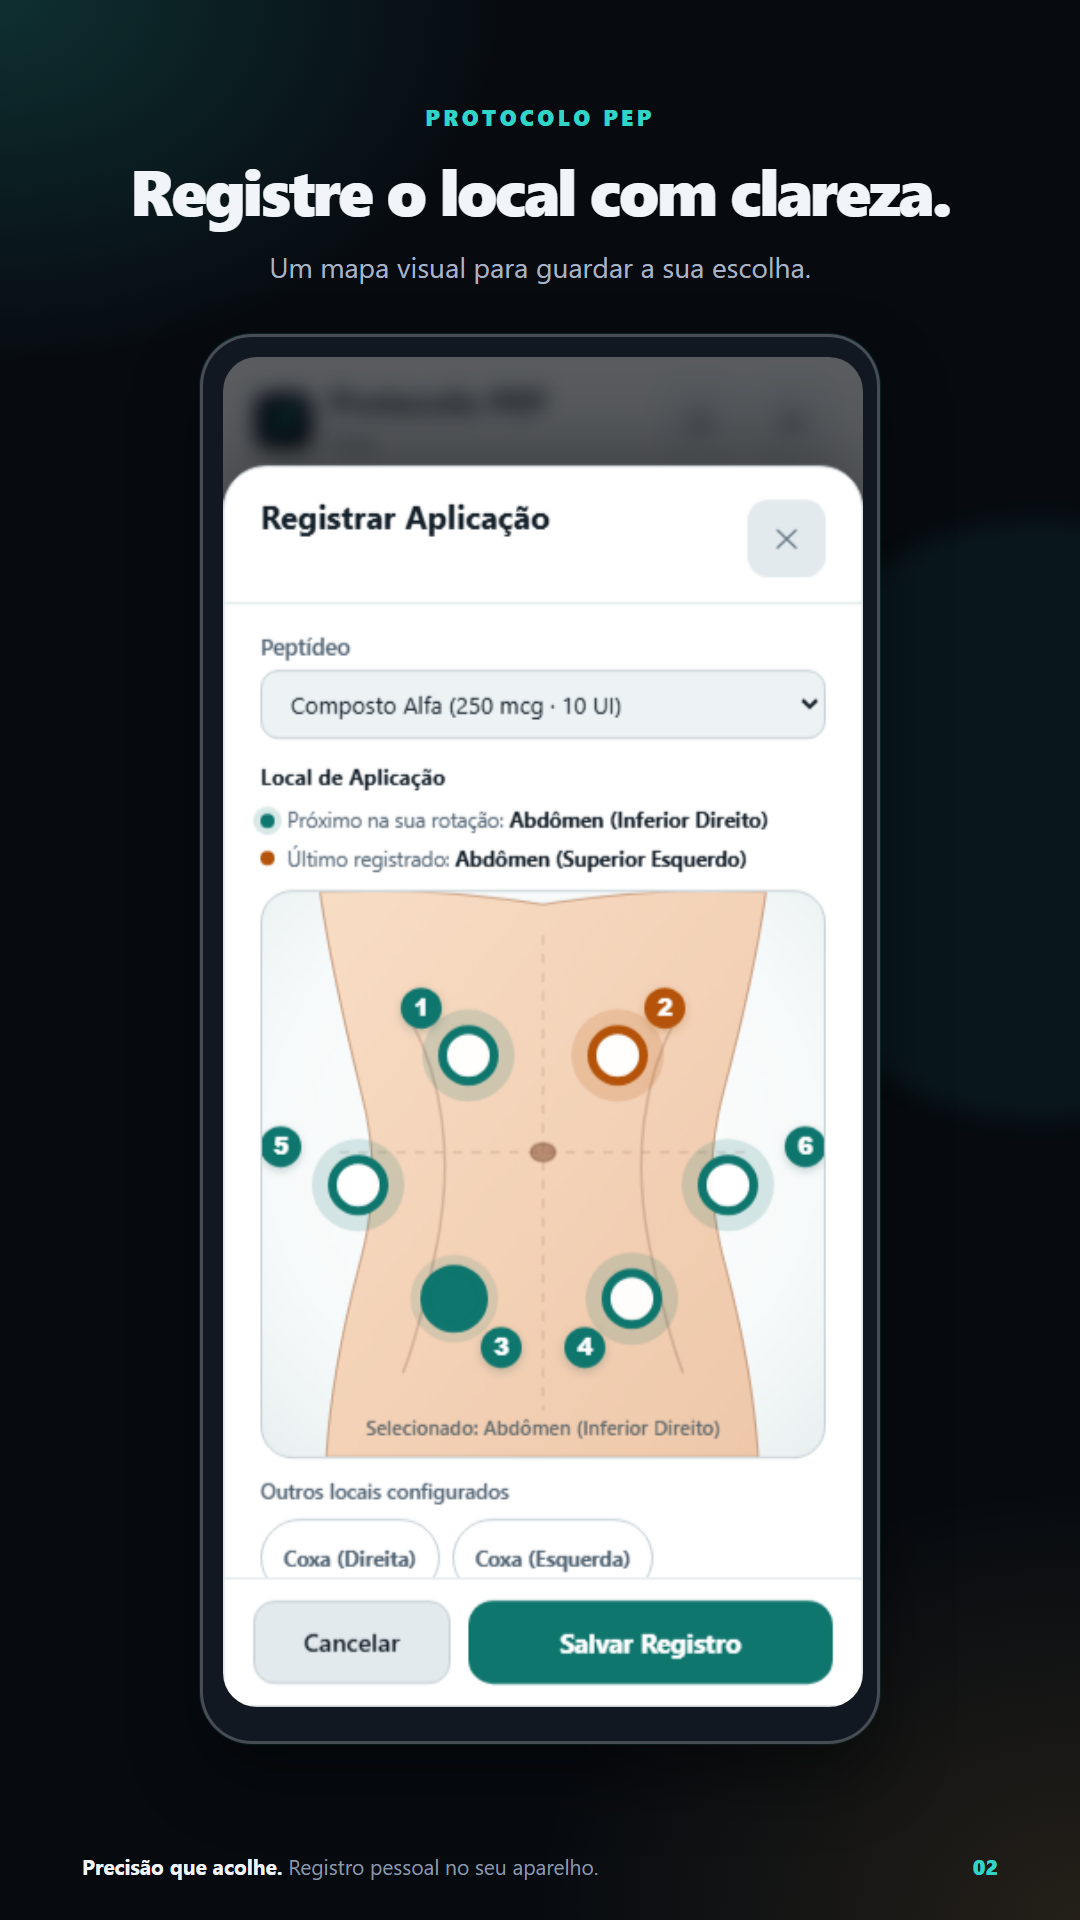
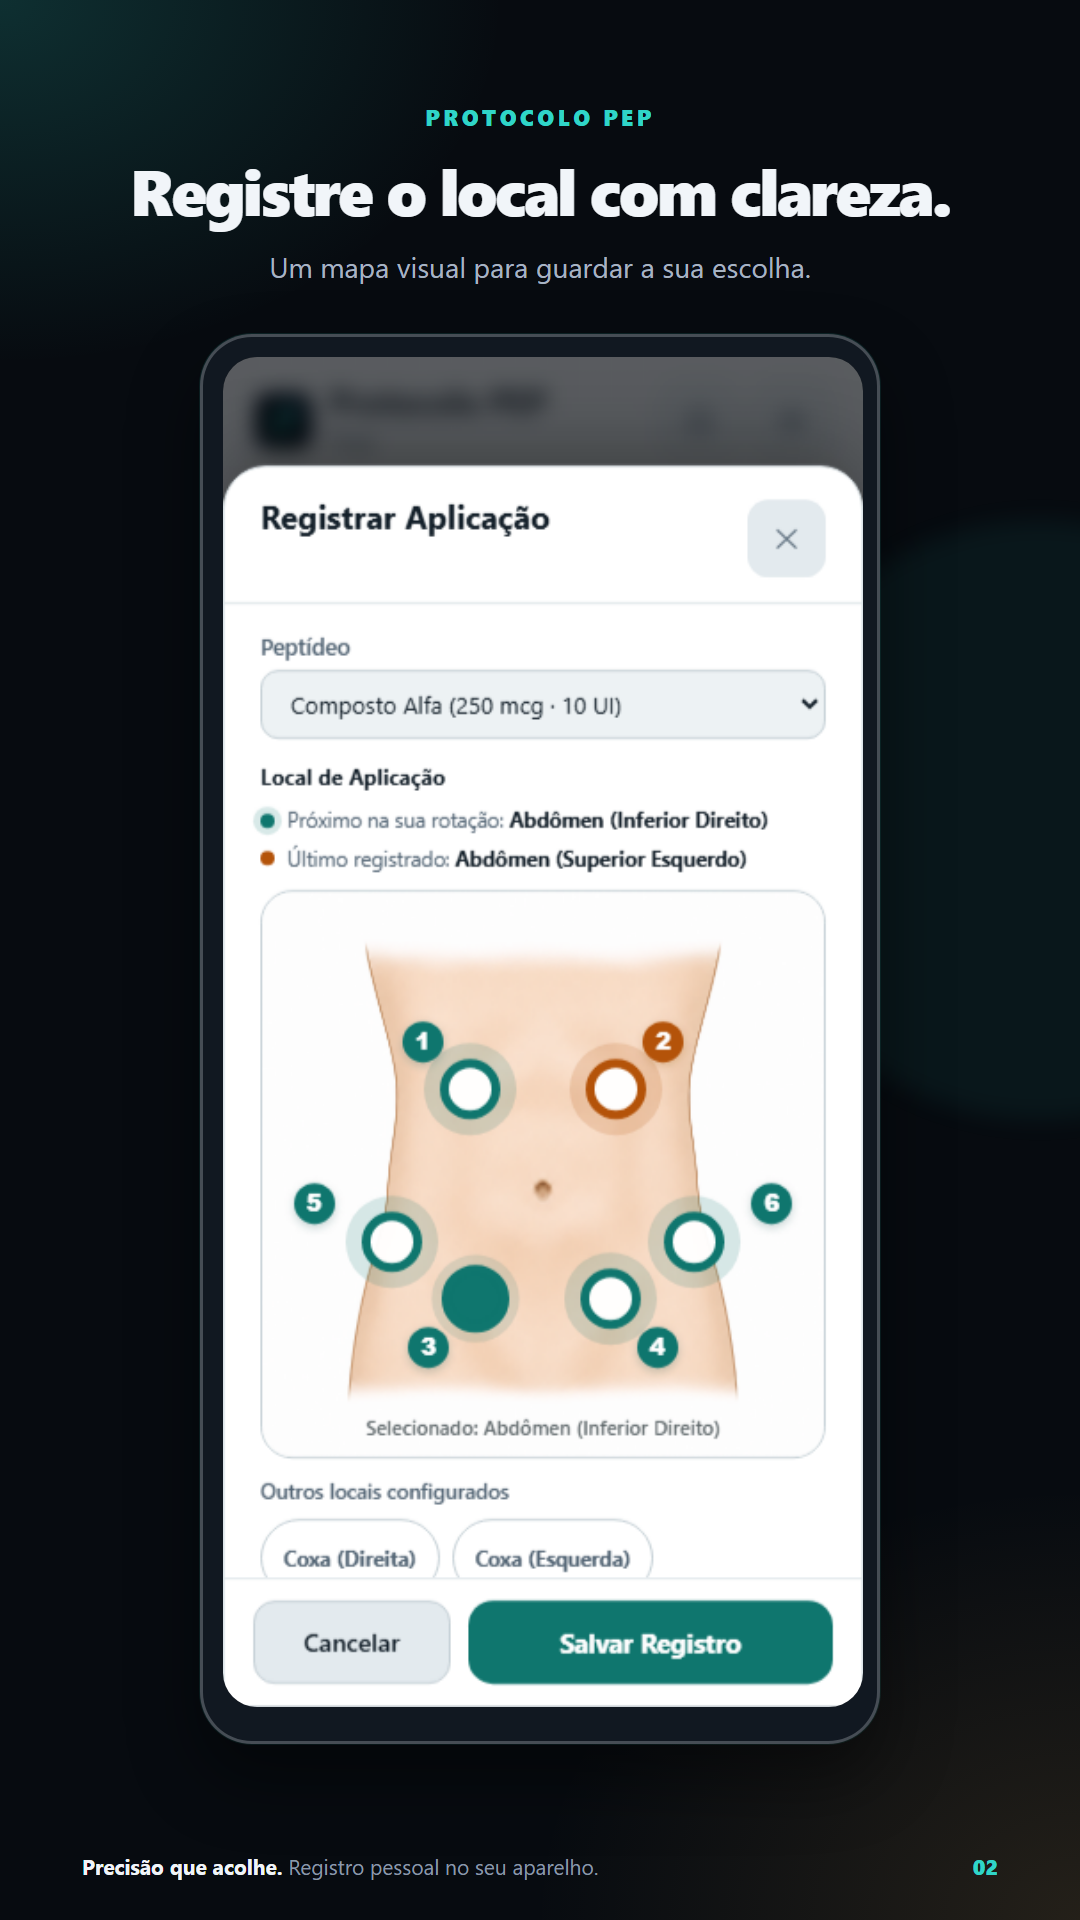
feat: use reference torso for injection map

Changed region(s): [[0.2444, 0.4375, 0.7639, 0.7812], [0.4889, 0.5938, 0.5194, 0.625]]

diff --git a/src/ui/injection-site-picker.js b/src/ui/injection-site-picker.js
@@ -5,6 +5,8 @@
  * Ele não avalia a pele, não determina segurança e não recomenda onde aplicar.
  */
 
+import torsoImageUrl from "../assets/injection-site-torso.png";
+
 const VISUAL_POSITIONS = Object.freeze({
   "abdomen (superior direito)": Object.freeze({ placement: "abdomen-upper-right", order: 0 }),
   "abdomen (superior esquerdo)": Object.freeze({ placement: "abdomen-upper-left", order: 1 }),
@@ -73,58 +75,13 @@ export function createInjectionSitePickerModel(
 }
 
 function createTorsoIllustration() {
-  const svgNamespace = "http://www.w3.org/2000/svg";
-  const svg = document.createElementNS(svgNamespace, "svg");
-  svg.setAttribute("viewBox", "0 0 320 360");
-  svg.setAttribute("class", "injection-site-figure");
-  svg.setAttribute("aria-hidden", "true");
-  svg.setAttribute("focusable", "false");
-
-  const defs = document.createElementNS(svgNamespace, "defs");
-  const gradient = document.createElementNS(svgNamespace, "linearGradient");
-  gradient.setAttribute("id", "pep-abdomen-gradient");
-  gradient.setAttribute("x1", "0");
-  gradient.setAttribute("y1", "0");
-  gradient.setAttribute("x2", "1");
-  gradient.setAttribute("y2", "1");
-
-  const firstStop = document.createElementNS(svgNamespace, "stop");
-  firstStop.setAttribute("offset", "0");
-  firstStop.setAttribute("class", "injection-site-skin-start");
-  const secondStop = document.createElementNS(svgNamespace, "stop");
-  secondStop.setAttribute("offset", "1");
-  secondStop.setAttribute("class", "injection-site-skin-end");
-  gradient.append(firstStop, secondStop);
-  defs.appendChild(gradient);
-
-  const torso = document.createElementNS(svgNamespace, "path");
-  torso.setAttribute(
-    "d",
-    "M18 0C78 -2 115 1 160 8C205 1 242 -2 302 0c-6 43-16 86-27 127-10 38-10 71 1 111 9 34 18 73 21 122H22c3-49 12-88 21-122 11-40 11-73 1-111C34 86 24 43 18 0Z"
-  );
-  torso.setAttribute("class", "injection-site-torso");
-
-  const waistLeft = document.createElementNS(svgNamespace, "path");
-  waistLeft.setAttribute("d", "M76 82c19 36 28 86 16 145-7 34-13 59-21 79");
-  waistLeft.setAttribute("class", "injection-site-contour");
-  const waistRight = document.createElementNS(svgNamespace, "path");
-  waistRight.setAttribute("d", "M244 82c-19 36-28 86-16 145 7 34 13 59 21 79");
-  waistRight.setAttribute("class", "injection-site-contour");
-  const centerLine = document.createElementNS(svgNamespace, "path");
-  centerLine.setAttribute("d", "M160 28v302");
-  centerLine.setAttribute("class", "injection-site-centerline");
-  const quadrantLine = document.createElementNS(svgNamespace, "path");
-  quadrantLine.setAttribute("d", "M31 166h258");
-  quadrantLine.setAttribute("class", "injection-site-centerline");
-  const navel = document.createElementNS(svgNamespace, "ellipse");
-  navel.setAttribute("cx", "160");
-  navel.setAttribute("cy", "166");
-  navel.setAttribute("rx", "8");
-  navel.setAttribute("ry", "6");
-  navel.setAttribute("class", "injection-site-navel");
-
-  svg.append(defs, torso, waistLeft, waistRight, centerLine, quadrantLine, navel);
-  return svg;
+  const image = document.createElement("img");
+  image.className = "injection-site-figure";
+  image.src = torsoImageUrl;
+  image.alt = "";
+  image.setAttribute("aria-hidden", "true");
+  image.setAttribute("draggable", "false");
+  return image;
 }
 
 function createStatusLine(className, label, value) {

diff --git a/src/css/components.css b/src/css/components.css
@@ -3054,6 +3054,9 @@ body.theme-light .daypick button.on {
   width: 100%;
   height: 100%;
   transform: none;
+  object-fit: cover;
+  object-position: center center;
+  user-select: none;
 }
 
 .injection-site-skin-start {
@@ -3110,33 +3113,33 @@ body.theme-light .daypick button.on {
 }
 
 .injection-site-point.abdomen-upper-right {
-  top: 29%;
-  left: calc(50% - 42px);
+  top: 35%;
+  left: 37%;
 }
 
 .injection-site-point.abdomen-upper-left {
-  top: 29%;
-  left: calc(50% + 42px);
+  top: 35%;
+  left: 63%;
 }
 
 .injection-site-point.abdomen-lower-right {
   top: 72%;
-  left: calc(50% - 50px);
+  left: 38%;
 }
 
 .injection-site-point.abdomen-lower-left {
   top: 72%;
-  left: calc(50% + 50px);
+  left: 62%;
 }
 
 .injection-site-point.flank-right {
-  top: 52%;
-  left: calc(50% - 104px);
+  top: 62%;
+  left: 23%;
 }
 
 .injection-site-point.flank-left {
-  top: 52%;
-  left: calc(50% + 104px);
+  top: 62%;
+  left: 77%;
 }
 
 .injection-site-point.abdomen-right {
@@ -3199,13 +3202,13 @@ body.theme-light .daypick button.on {
 }
 
 .injection-site-point.abdomen-lower-right .injection-site-point-number {
-  right: -16px;
   bottom: -17px;
+  left: -16px;
 }
 
 .injection-site-point.abdomen-lower-left .injection-site-point-number {
   bottom: -17px;
-  left: -16px;
+  right: -16px;
 }
 
 .injection-site-point.is-last {
